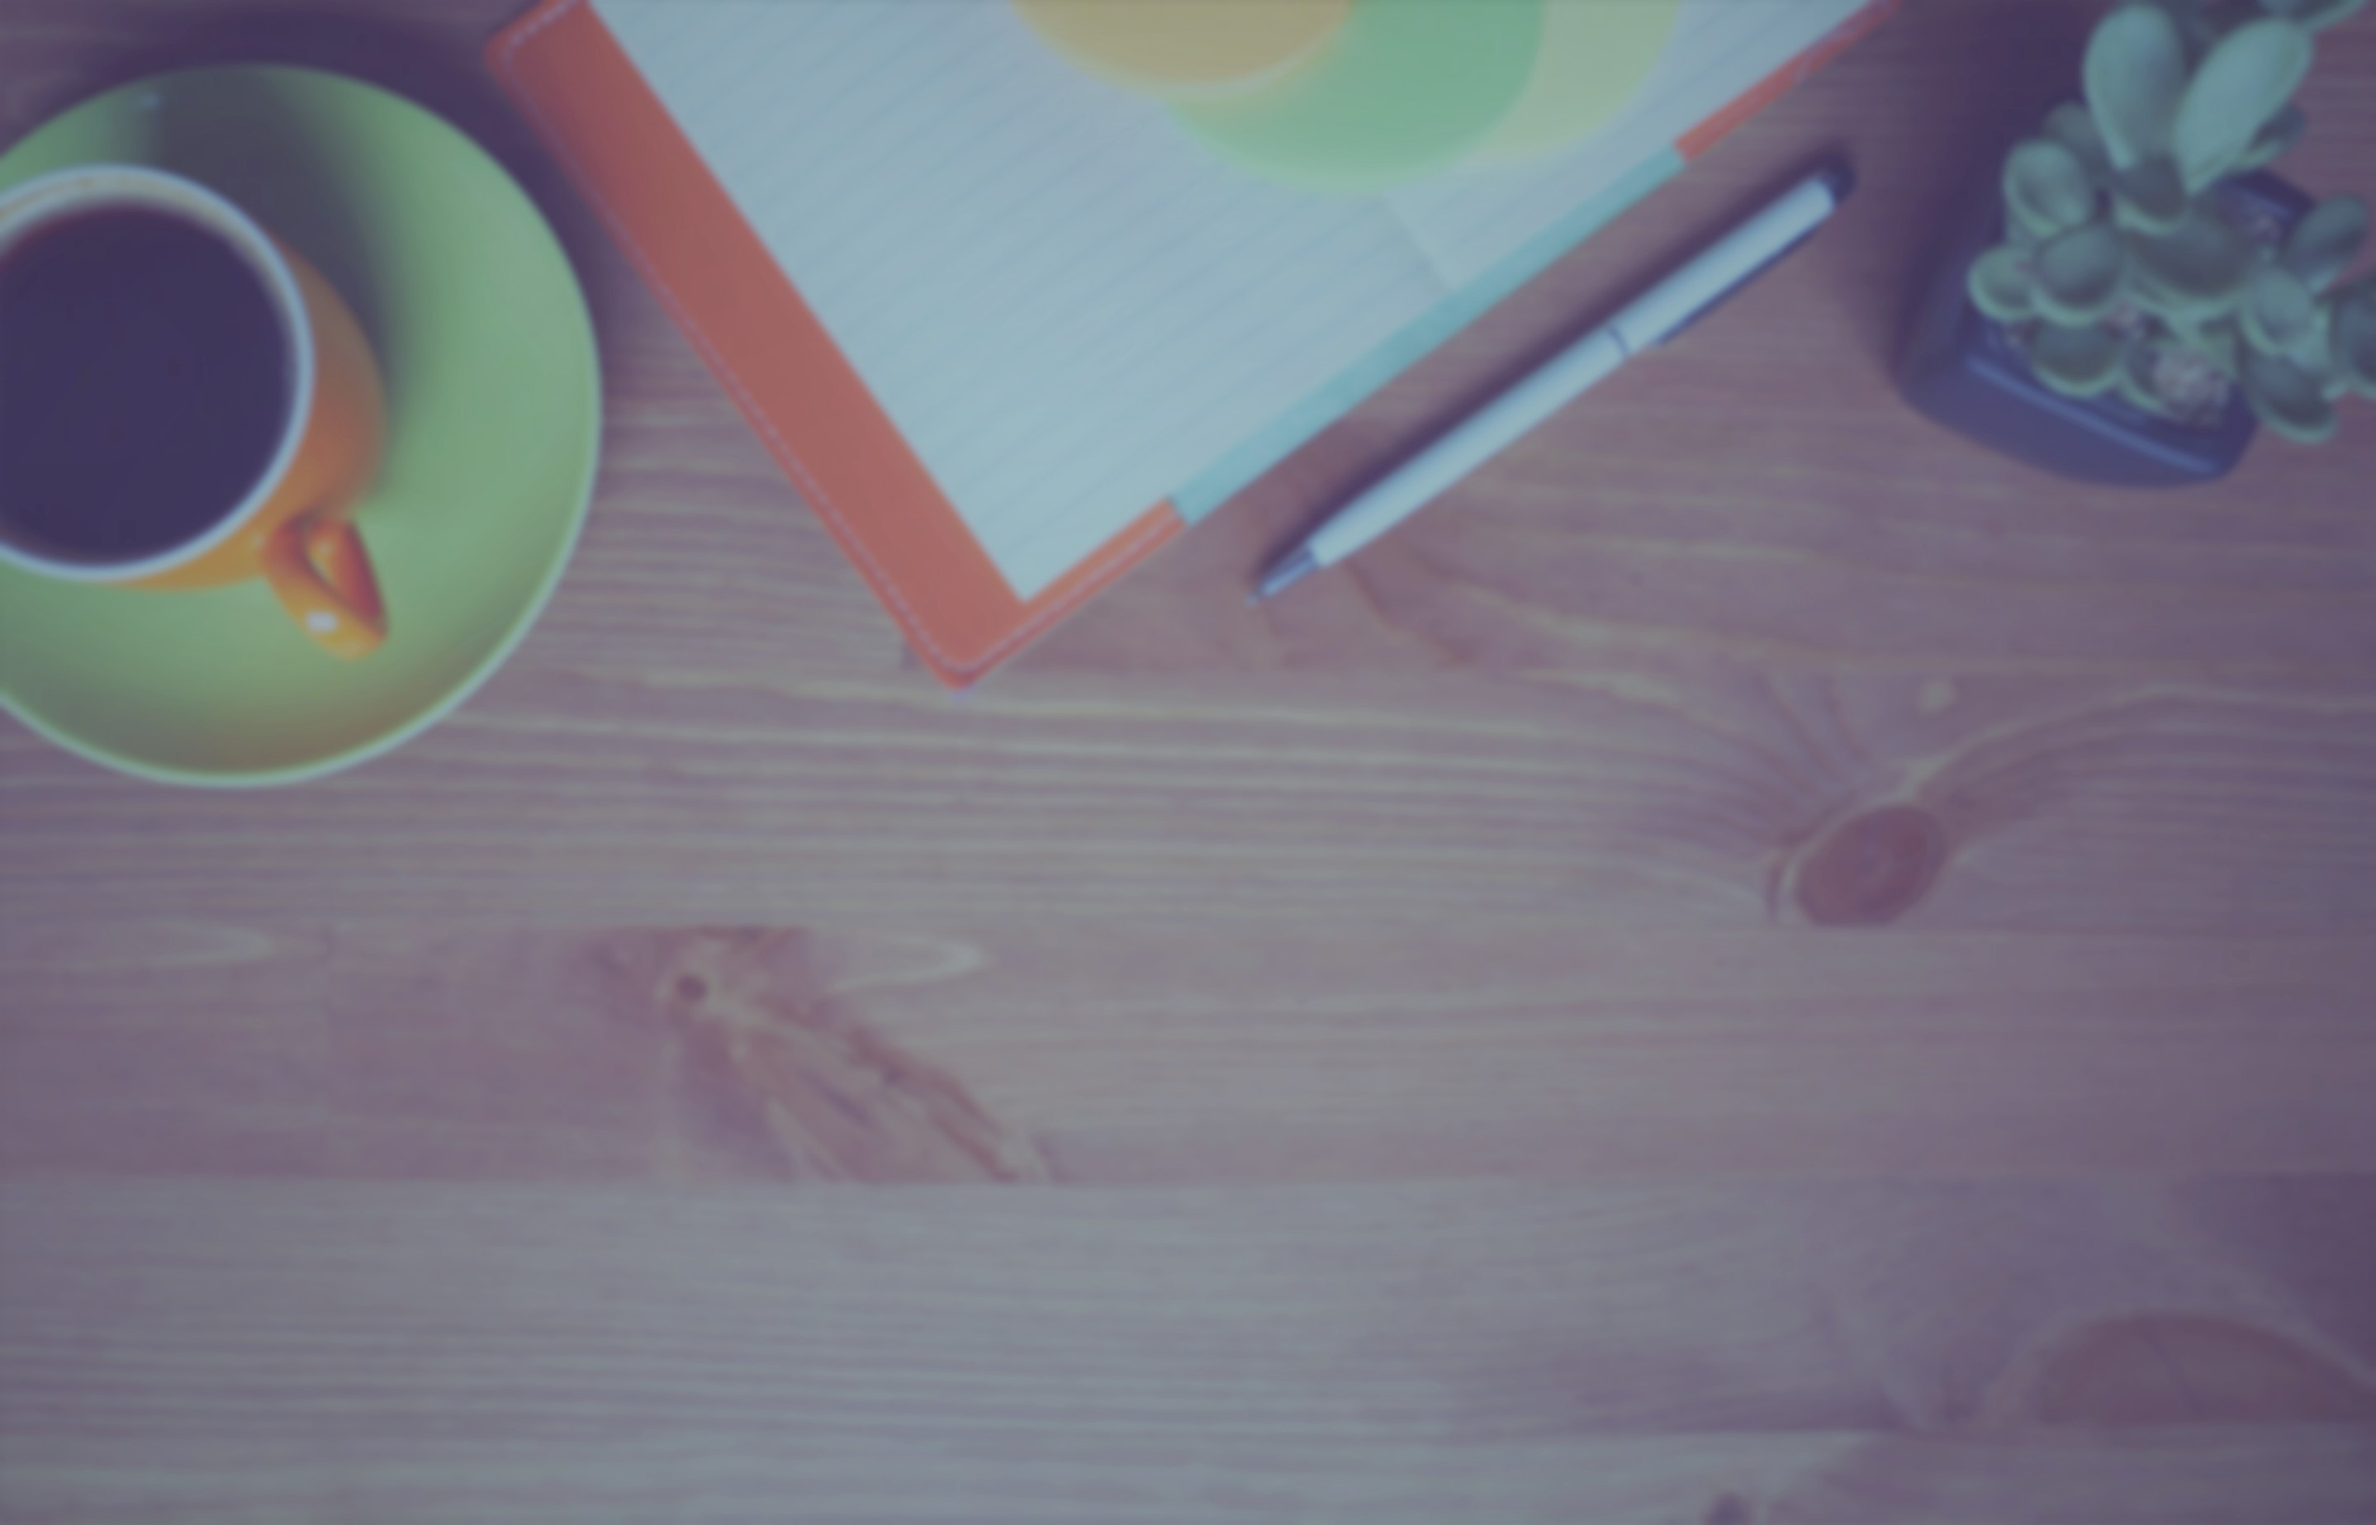
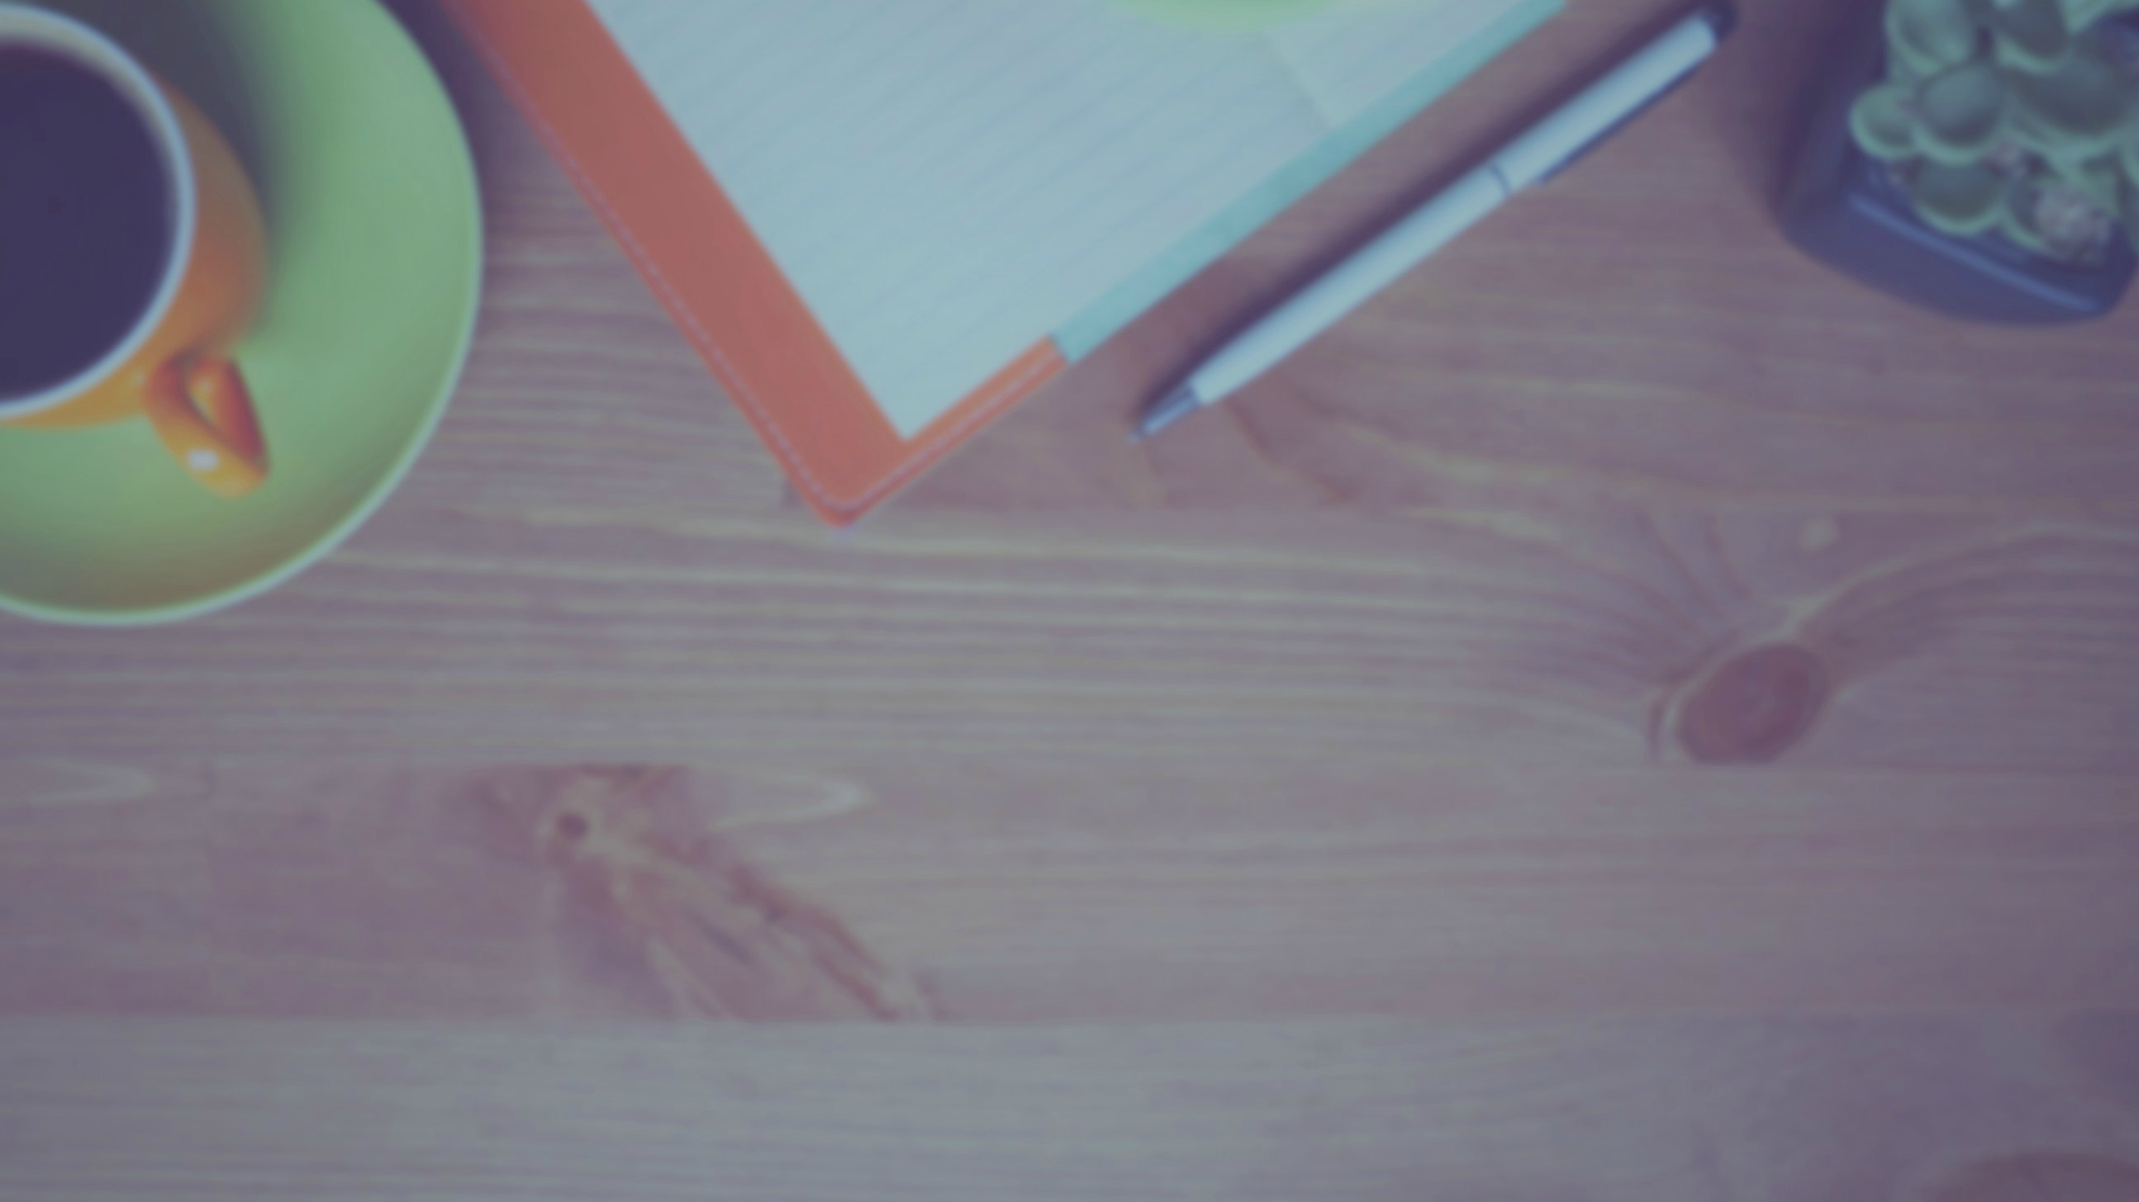
Mobile friendly optimizations

diff --git a/stylesheet.css b/stylesheet.css
@@ -1,9 +1,20 @@
-*{margin: 0; }
+*{margin: 0 auto;
+  padding: 0 auto;}
+
+  html,body
+  {
+      width: 100%;
+      height: 100%;
+      margin: 0px;
+      padding: 0px;
+      overflow-x: hidden;
+  }
 
 body {
   background-color: #263238;;
   animation-name: fadeIn;
   animation-duration: 1.5s;
+  overflow-x: hidden;
 }
 
 .headings{
@@ -14,6 +25,11 @@ body {
   opacity: 1;
 }
 
+.container{
+  width: 100vw;
+  height: 100vh;
+}
+
 .content {
   font-size: 30px;
   width: 50vw;
@@ -21,8 +37,8 @@ body {
 }
 
 .experienceContent{
-  margin: 10px 20px 20px 20px;
-  width: 25vw;
+  margin: 20px 20px 20px 20px;
+  width: 30vw;
   height: 25vh;
   text-align: center;
   font-size: 30px;
@@ -42,12 +58,14 @@ body {
   align-items: center;
   /*margin-top: 25%;*/
   width: 100%;
+  flex-grow: 1 1 100vw;
 }
 
 .flex-vertical{
   display: flex;
   flex-direction: column;
   justify-content: center;
+  flex-grow: 1 1 100vw;
 }
 
 .margin {
@@ -71,9 +89,9 @@ body {
 
 #coverContainer{
   background-image: url("seattle_backdrop.jpg");
-  height: 100vh;
-  width: 100vw;
+  /*background-color: blue;*/
   display: flex;
+  flex-direction: row;
   justify-content: center;
   align-items: center;
 }
@@ -85,41 +103,44 @@ body {
 
 #aboutMeContainer{
   background-image: url("self_portrait_edit.jpg");
-  height: 100vh;
-  width: 100vw;
+  background-size: cover;
   text-align: center;
 }
 
 #experienceContainer{
   background-image: url("desk_top_view.jpg");
-  height: 100vh;
-  width: 100vw;
+  background-size: cover;
 }
 
 #pushUpProjectContainer{
   background-image: url("pushUp_background.jpg");
-  height: 100vh;
-  width: 100vw;
+  background-size: cover;
   text-align: center;
 }
 
 #stopProjectContainer{
   background-image: url("stop_background.jpg");
-  height: 100vh;
-  width: 100vw;
+  background-size: cover;
   text-align: center;
 }
 
 #websiteProjectContainer{
   background-image: url("website_background.jpg");
-  height: 100vh;
-  width: 100vw;
+  background-size: cover;
 }
 
 #contactMeContainer{
   background-image: url("contact_background.jpg");
-  height: 100vh;
-  width: 100vw;
+  background-size: cover;
+}
+
+@media (max-width: 1200px) {
+
+p {
+  font-size: 2em;
+}
+
+
 }
 
 /*
@@ -137,7 +158,10 @@ body {
   Fonts
 */
 .comfortaa {
-  font-family: 'Comfortaa', cursive;
+  font-family: 'Josefin Sans', sans-serif;
+  /*font-family: 'Poiret One', cursive;*/
+
+  /*font-family: 'Comfortaa', cursive;*/
 }
 .rightous{
   font-family: 'Righteous', cursive;

diff --git a/index.html b/index.html
@@ -3,7 +3,7 @@
 <head>
   <link rel="stylesheet" href="stylesheet.css">
 
-  <link href="https://fonts.googleapis.com/css?family=Comfortaa|Righteous|Yellowtail" rel="stylesheet">
+  <link href="https://fonts.googleapis.com/css?family=Comfortaa|Righteous|Yellowtail|Josefin+Sans|Poiret+One" rel="stylesheet">
   <script src="jquery-3.1.1.min.js"></script>
   <script src="jquery.scrollify.js"></script>
   <script src="typed.js"></script>
@@ -47,7 +47,7 @@
   </div>
 
   <!-- 4th page -->
-  <div id="pushUpProjectContainer" class="flex-horizontal container">
+  <div class="flex-horizontal container" id="pushUpProjectContainer" >
     <h1 class="headings rightous">Push-Up Fitness Tracker</h1>
     <div class="content comfortaa">
       <p>Utlization of the phones proxmity sensor for a contactless push-up tracker</p>
